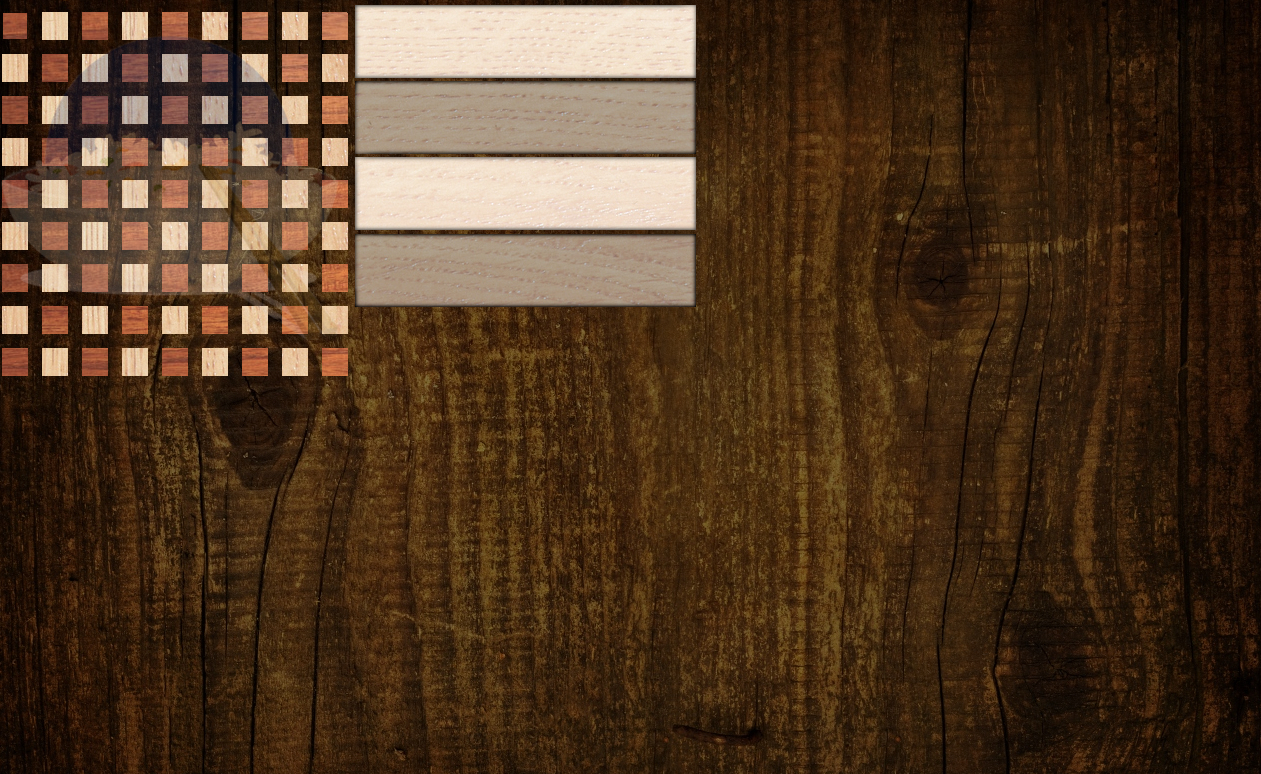
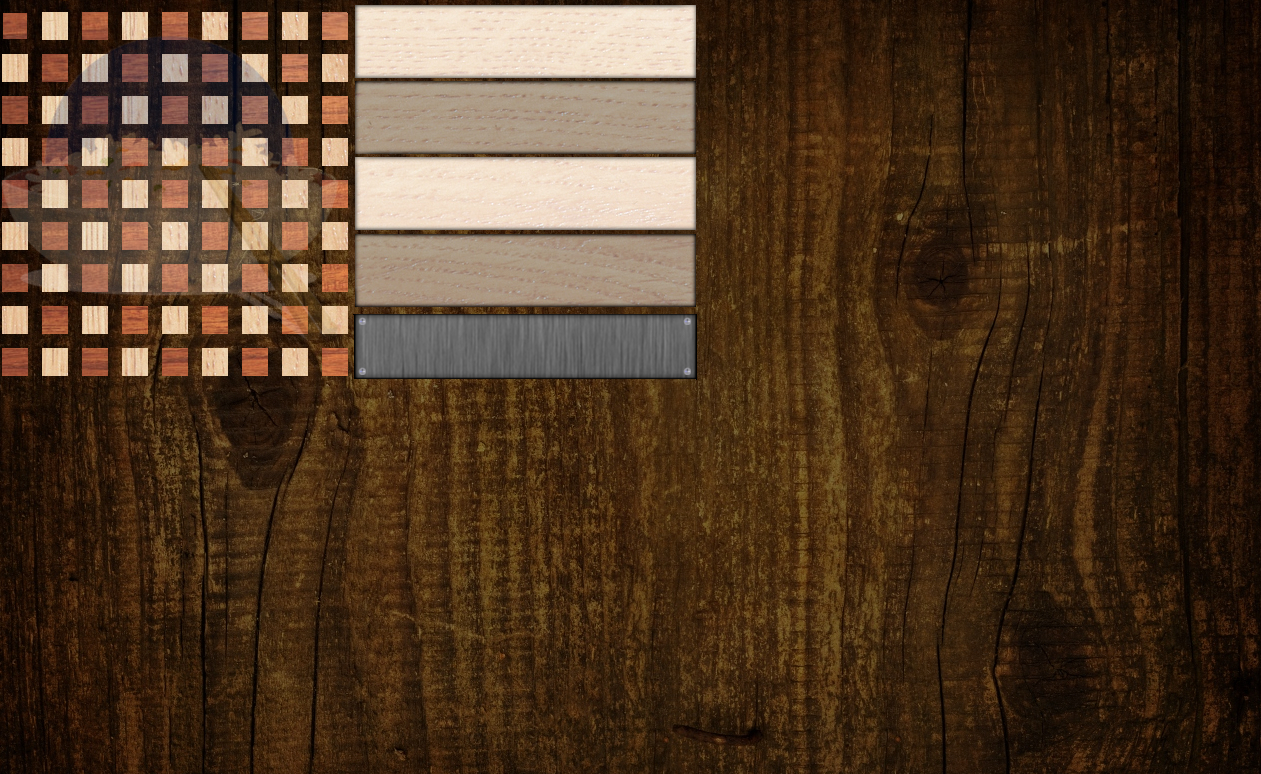
Updated the board design, added some functionality for showing potential spaces and made it so I could have different colors for official walls vs temp walls.

Changed region(s): [[0.2784, 0.4031, 0.5567, 0.4961]]

diff --git a/Quoridor/src/Board_GUI/BoardGui.java b/Quoridor/src/Board_GUI/BoardGui.java
@@ -95,32 +95,41 @@ public class BoardGui extends JFrame implements ActionListener{
 		}
 		
 		space.get(4).setColor(Color.BLUE);
+		space.get(4).setPotential(false);
 		space.get(4).setClicked(true);
 		
+		/*
+		 * this is an example for potential spaces
+		 */
+		space.get(3).setPotential(true);
+		space.get(5).setPotential(true);
+		space.get(13).setPotential(true);
+		
+		
 		space.get(76).setColor(Color.GREEN);
+		space.get(76).setPotential(false);
 		space.get(76).setClicked(true);
 		
 		pane.add(panel);
 		
 		JPanel grid = new JPanel(new GridLayout(5,1));
 		grid.setOpaque(false);
-		JLabel label = new JLabel("\t\t\tfield 1");
-		label.setForeground(Color.MAGENTA);
+		JLabel label = new JLabel("\t\t\t" + 5 + " walls remain");
+		label.setForeground(Color.BLUE);
 		grid.add(label);
-		JLabel label2 = new JLabel("\t\t\tfield 2");
+		JLabel label2 = new JLabel("\t\t\t" + 5 + " walls remain");
 		label2.setForeground(Color.GREEN);
 		grid.add(label2);
-		JLabel label3 = new JLabel("\t\t\tfield 3");
-		label3.setForeground(Color.BLUE);
+		JLabel label3 = new JLabel("\t\t\t");
+		label3.setForeground(Color.RED);
 		grid.add(label3);
-		JLabel label4 = new JLabel("\t\t\tfield 4");
-		label4.setForeground(Color.RED);
+		JLabel label4 = new JLabel("\t\t\t");
+		label4.setForeground(Color.PINK);
 		grid.add(label4);
 		JButton submit = new JButton("Submit");
+		submit.setForeground(Color.WHITE);
 		submit.setOpaque(false);
-		//submit.setContentAreaFilled(false);
 		submit.setBorderPainted(false);
-		//submit.setPreferredSize(new Dimension(20,30));
 		grid.add(submit);
 		pane.add(grid);
 	}

diff --git a/Quoridor/src/Board_GUI/BoardSpace.java b/Quoridor/src/Board_GUI/BoardSpace.java
@@ -9,7 +9,9 @@ public class BoardSpace extends JButton{
 	boolean here = false;
 	private String id;
 	private boolean clicked = false;
+	private boolean potential = false;
 	private Color color;
+	
 	public BoardSpace(String n, String id, boolean clicked){
 			super(n);
 			this.id = id;
@@ -28,6 +30,14 @@ public class BoardSpace extends JButton{
 		this.clicked = clicked;
 	}
 	
+	public boolean getPotential() {
+		return this.potential;
+	}
+	
+	public void setPotential(boolean potential) {
+		this.potential = potential;
+	}
+	
 	public boolean isClicked() {
 		return this.clicked;
 	}
@@ -38,6 +48,12 @@ public class BoardSpace extends JButton{
 		} else {
 			g.setColor(color);
 			g.fillOval(4, 4, 20, 20);
+		}
+		
+		if(potential) {
+			//g.setColor(new Color(0, 1f, 0, 0.60f));
+			g.setColor(new Color(.5f, .5f, 1f, 0.60f));
+			g.fillRect(0, 0, getWidth(), getHeight());
 		}
 	}
 	

diff --git a/Quoridor/src/Board_GUI/HWall.java b/Quoridor/src/Board_GUI/HWall.java
@@ -10,6 +10,7 @@ public class HWall extends JButton{
 	private String vert;
 	private String horz;
 	private static boolean clicked = false;
+	private Color color = Color.lightGray;
 	
 	public HWall(String n, String id, boolean clicked){
 		super(n);
@@ -21,6 +22,10 @@ public class HWall extends JButton{
 		this.setPreferredSize(new Dimension(4,12));
 		setBorderPainted(false);
 		setEnabled(false);
+	}
+	
+	public void setColor(Color color) {
+		this.color = color;
 	}
 	
 	public void setClicked(boolean clicked) {
@@ -37,7 +42,7 @@ public class HWall extends JButton{
 		if (!clicked) {
 			super.paintComponent(g);
 		} else {
-			g.setColor(Color.GREEN);
+			g.setColor(color);
 			g.fillRect(0, 0, getWidth(), getHeight());
 		}
 	}

diff --git a/Quoridor/src/Board_GUI/VWall.java b/Quoridor/src/Board_GUI/VWall.java
@@ -10,6 +10,7 @@ public class VWall extends JButton {
 	private String vert;
 	private String horz;
 	private static boolean clicked = false;
+	private Color color = Color.lightGray;
 	
 	public VWall(String n, String id, boolean clicked){
 		super(n);
@@ -21,6 +22,10 @@ public class VWall extends JButton {
 		setPreferredSize(new Dimension(4,30));
 		setBorderPainted(false);
 		setEnabled(false);
+	}
+	
+	public void setColor(Color color) {
+		this.color = color;
 	}
 	
 	public void setClicked(boolean clicked) {
@@ -35,7 +40,7 @@ public class VWall extends JButton {
 		if (!clicked) {
 			super.paintComponent(g);
 		} else {
-			g.setColor(Color.BLUE);
+			g.setColor(color);
 			g.fillRect(0, 0, getWidth(), getHeight());
 		}
 	}
